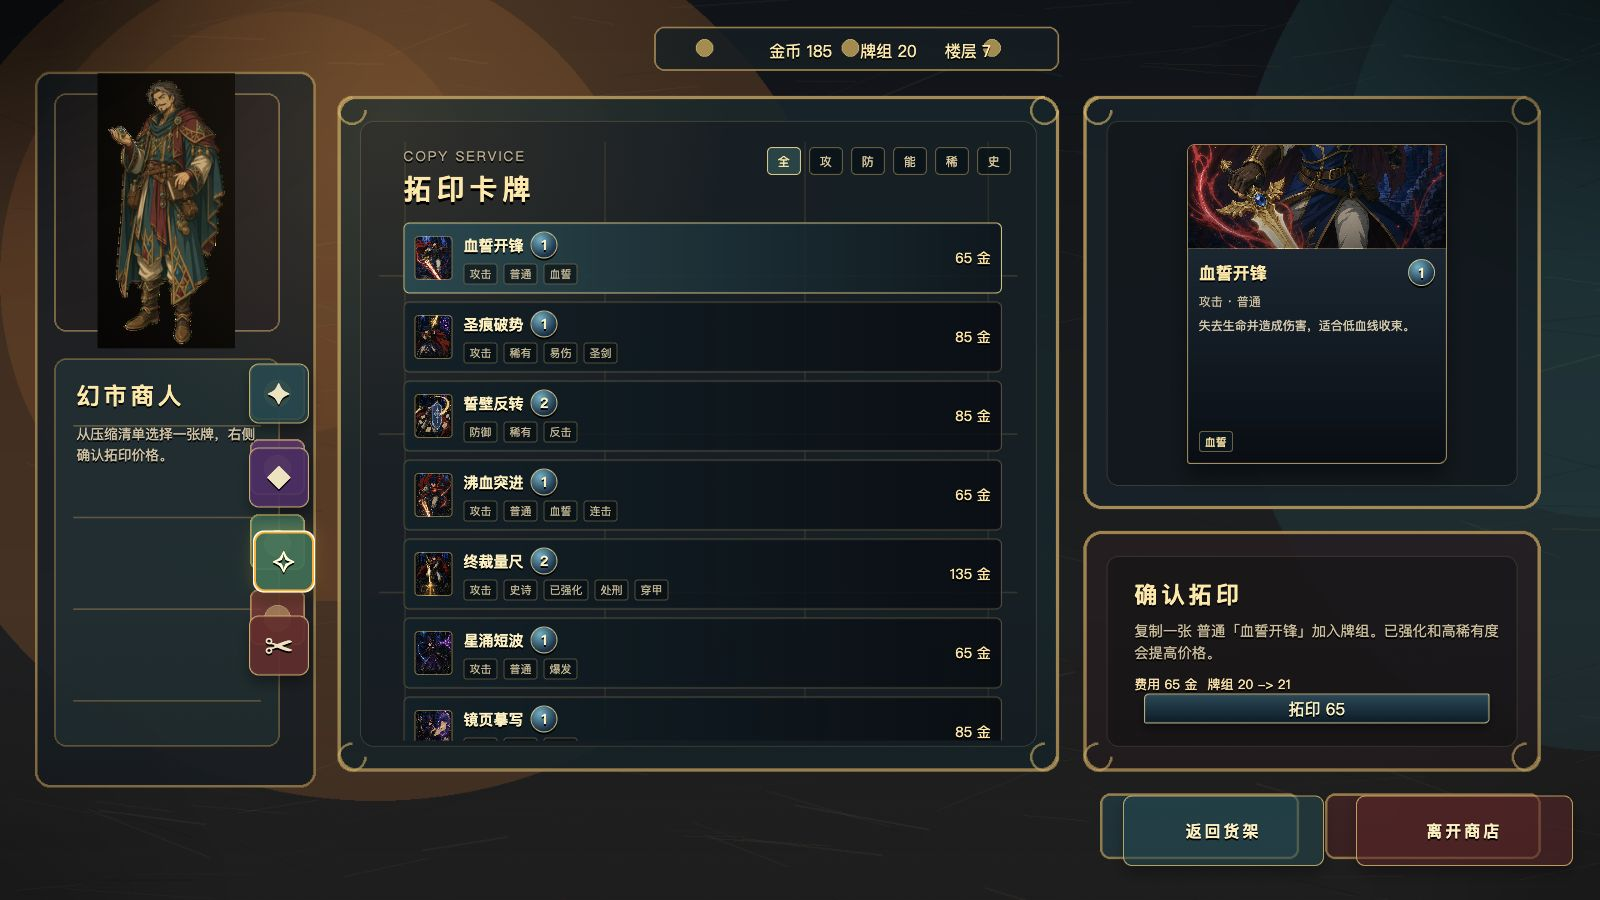
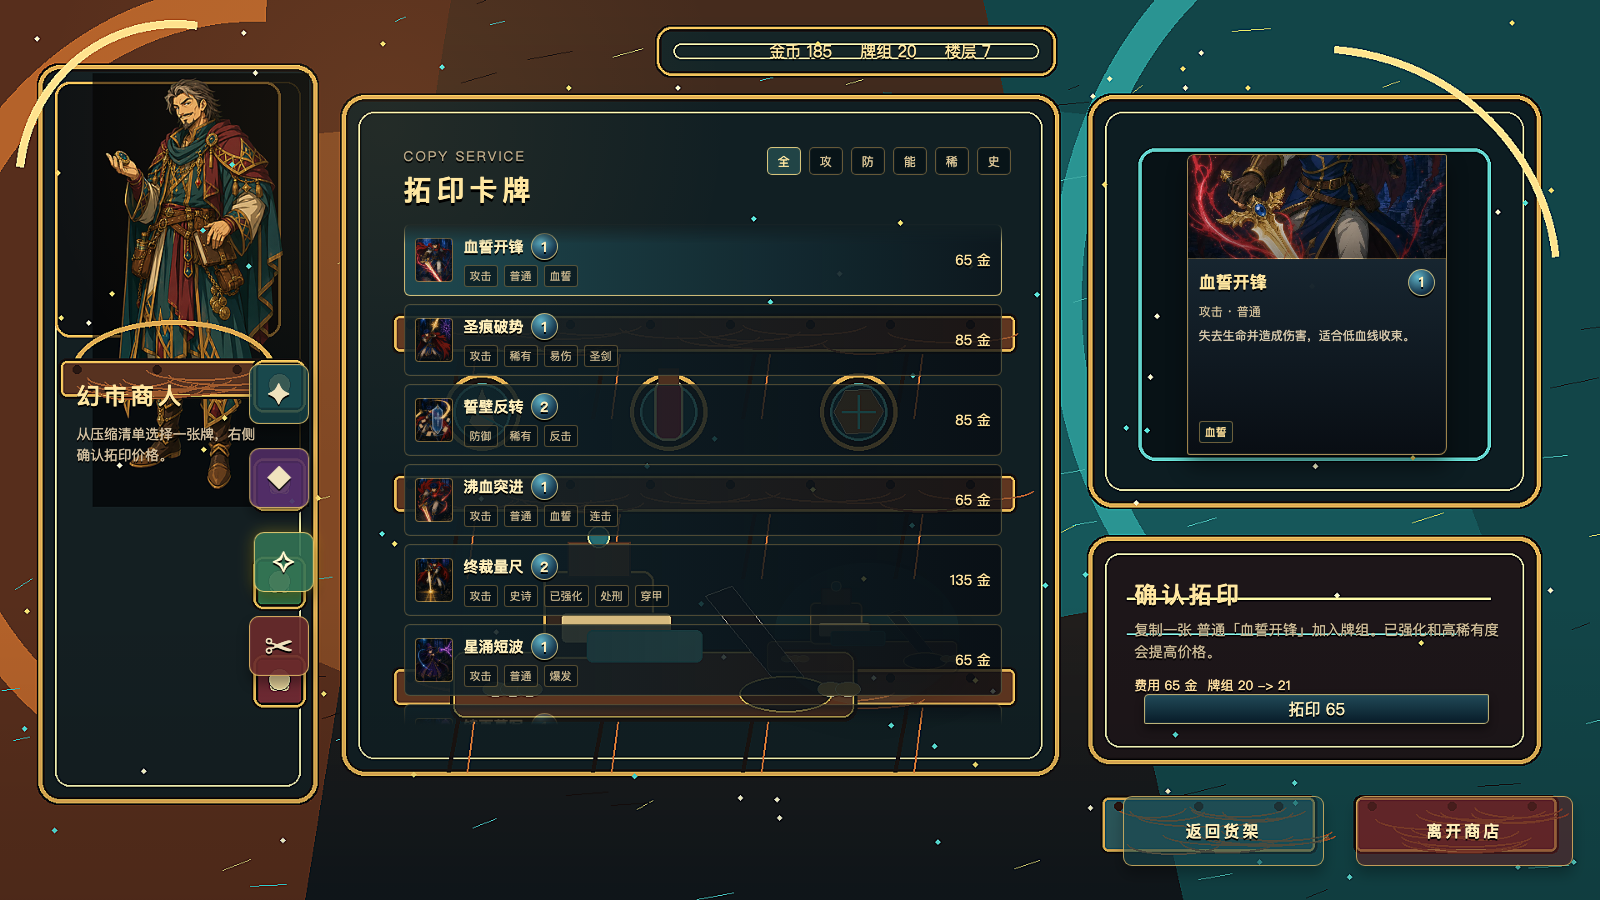
Update shop art prototype

diff --git a/assets/candidates/ui/shop/prototype/shop_prototype.html b/assets/candidates/ui/shop/prototype/shop_prototype.html
@@ -41,7 +41,7 @@
       aspect-ratio: 16 / 9;
       position: relative;
       overflow: hidden;
-      background: #070b10 url("./shop_prototype_plate_v1.png") center / cover no-repeat;
+      background: #070b10 url("./shop_art_plate_v2.png") center / cover no-repeat;
       box-shadow: 0 24px 70px rgba(0, 0, 0, 0.75);
     }
 
@@ -51,8 +51,8 @@
       inset: 0;
       pointer-events: none;
       background:
-        radial-gradient(circle at 24% 14%, rgba(255, 190, 94, 0.11), transparent 24%),
-        linear-gradient(180deg, transparent 66%, rgba(0, 0, 0, 0.16));
+        radial-gradient(circle at 24% 14%, rgba(255, 190, 94, 0.08), transparent 24%),
+        linear-gradient(180deg, transparent 66%, rgba(0, 0, 0, 0.12));
     }
 
     .resource-strip {
@@ -154,6 +154,12 @@
       z-index: 2;
     }
 
+    #content-body {
+      position: relative;
+      height: calc(100% - 70px);
+      min-height: 0;
+    }
+
     .content-head {
       display: flex;
       align-items: flex-start;
@@ -207,7 +213,7 @@
       display: grid;
       grid-template-columns: repeat(3, minmax(0, 1fr));
       gap: 15px;
-      height: calc(100% - 70px);
+      height: 100%;
       align-content: start;
     }
 
@@ -337,8 +343,28 @@
       display: grid;
       grid-template-columns: repeat(3, minmax(0, 1fr));
       gap: 16px;
-      height: calc(100% - 74px);
+      height: auto;
       align-content: start;
+      position: relative;
+      z-index: 2;
+    }
+
+    .relic-showcase {
+      height: 100%;
+      display: grid;
+      grid-template-rows: minmax(116px, 34%) 1fr;
+      gap: 10px;
+      min-height: 0;
+    }
+
+    .relic-tray-art {
+      width: min(94%, 560px);
+      max-height: 146px;
+      object-fit: contain;
+      justify-self: center;
+      align-self: center;
+      filter: drop-shadow(0 16px 18px rgba(0,0,0,0.5));
+      pointer-events: none;
     }
 
     .relic-token {
@@ -385,12 +411,29 @@
     .deck-layout {
       display: grid;
       grid-template-columns: minmax(0, 1fr);
-      height: calc(100% - 74px);
+      height: 100%;
+      position: relative;
+      min-height: 0;
+    }
+
+    .service-workbench-art {
+      position: absolute;
+      right: 2%;
+      bottom: 1%;
+      width: min(44%, 280px);
+      opacity: 0.32;
+      filter: drop-shadow(0 16px 18px rgba(0,0,0,0.56));
+      pointer-events: none;
+      z-index: 0;
     }
 
     .deck-list {
       overflow-y: auto;
       padding-right: 9px;
+      position: relative;
+      z-index: 2;
+      -webkit-mask-image: linear-gradient(180deg, transparent 0, black 20px, black calc(100% - 24px), transparent 100%);
+      mask-image: linear-gradient(180deg, transparent 0, black 20px, black calc(100% - 24px), transparent 100%);
       scrollbar-width: thin;
       scrollbar-color: rgba(216,176,95,0.52) rgba(0,0,0,0.2);
     }
@@ -402,7 +445,8 @@
       padding: 8px 10px;
       border: 1px solid rgba(216,176,95,0.32);
       border-radius: 6px;
-      background: linear-gradient(90deg, rgba(15,33,40,0.94), rgba(7,12,18,0.84));
+      background: linear-gradient(90deg, rgba(15,33,40,0.9), rgba(7,12,18,0.76));
+      backdrop-filter: blur(2px);
       display: grid;
       grid-template-columns: 38px 1fr auto;
       gap: 11px;
@@ -483,7 +527,7 @@
     .detail .proto-card {
       width: min(260px, 78%);
       height: 100%;
-      min-height: 320px;
+      min-height: 300px;
       transform: none;
     }
 
@@ -760,15 +804,18 @@
       contextAction.textContent = '补货 10';
       renderFilters(false);
       body.innerHTML = `
-        <div class="relic-grid">
-          ${relics.map(relic => `
-            <button class="relic-token">
-              <div class="relic-icon">${relic.icon}</div>
-              <div class="relic-name">${relic.name}</div>
-              <div class="relic-desc">${relic.desc}</div>
-              <div class="tag-row" style="justify-content:center;"><span class="tag">${relic.sale ? '半价 ' : ''}${relic.price} 金</span></div>
-            </button>
-          `).join('')}
+        <div class="relic-showcase">
+          <img class="relic-tray-art" src="./shop_art_relic_tray.png" alt="">
+          <div class="relic-grid">
+            ${relics.map(relic => `
+              <button class="relic-token">
+                <div class="relic-icon">${relic.icon}</div>
+                <div class="relic-name">${relic.name}</div>
+                <div class="relic-desc">${relic.desc}</div>
+                <div class="tag-row" style="justify-content:center;"><span class="tag">${relic.sale ? '半价 ' : ''}${relic.price} 金</span></div>
+              </button>
+            `).join('')}
+          </div>
         </div>
       `;
       detail.innerHTML = `<div class="empty-state">奇珍详情会在这里显示<br>正式接入时读取真实遗物描述</div>`;
@@ -795,6 +842,7 @@
       const selected = cards.find(card => card.id === selectedId) || list[0] || cards[0];
       body.innerHTML = `
         <div class="deck-layout">
+          <img class="service-workbench-art" src="./shop_art_service_workbench.png" alt="">
           <div class="deck-list">
             ${list.map(card => deckRowHTML(card, selected.id, mode)).join('')}
           </div>

diff --git a/assets/candidates/ui/shop/prototype/build_shop_art_assets.py b/assets/candidates/ui/shop/prototype/build_shop_art_assets.py
@@ -1,0 +1,212 @@
+from __future__ import annotations
+
+import math
+import random
+from pathlib import Path
+
+from PIL import Image, ImageDraw, ImageFilter
+
+
+ROOT = Path(__file__).resolve().parents[4]
+OUT_DIR = Path(__file__).resolve().parent
+SHOPKEEPER = ROOT / "source/npc/shopkeeper_alpha_fullres_v1_source.png"
+W, H = 1920, 1080
+RNG = random.Random(1996)
+
+
+INK = (25, 19, 18, 245)
+LINE = (68, 45, 32, 245)
+GOLD = (220, 167, 82, 245)
+GOLD_LIGHT = (255, 226, 142, 230)
+TEAL = (38, 108, 112, 235)
+BURGUNDY = (112, 43, 52, 235)
+WALNUT = (95, 54, 32, 245)
+PARCHMENT = (216, 188, 128, 235)
+
+
+def lerp(a: int, b: int, t: float) -> int:
+    return int(a + (b - a) * t)
+
+
+def cel_bg() -> Image.Image:
+    img = Image.new("RGBA", (W, H), (0, 0, 0, 255))
+    draw = ImageDraw.Draw(img, "RGBA")
+    for y in range(H):
+        t = y / H
+        draw.line((0, y, W, y), fill=(lerp(70, 17, t), lerp(44, 24, t), lerp(30, 28, t), 255))
+
+    # Broad cel-animation color planes.
+    draw.polygon([(0, 0), (540, 0), (365, 1080), (0, 1080)], fill=(87, 46, 28, 170))
+    draw.polygon([(1180, 0), (1920, 0), (1920, 1080), (1420, 1080)], fill=(18, 69, 72, 150))
+    draw.polygon([(270, 170), (810, 120), (1030, 530), (620, 895), (210, 720)], fill=(129, 72, 36, 96))
+    draw.polygon([(1060, 110), (1600, 170), (1780, 650), (1270, 740)], fill=(22, 87, 90, 82))
+    draw.arc((-120, -20, 730, 960), 84, 272, fill=(180, 98, 42, 86), width=46)
+    draw.arc((1260, -140, 2080, 860), 96, 278, fill=(42, 148, 146, 72), width=38)
+
+    for _ in range(130):
+        x = RNG.randint(0, W)
+        y = RNG.randint(0, H)
+        length = RNG.randint(12, 58)
+        col = RNG.choice([(245, 190, 95, 42), (63, 171, 164, 40), (21, 17, 17, 58)])
+        draw.line((x, y, x + length, y - RNG.randint(2, 13)), fill=col, width=1)
+    return img
+
+
+def outlined_round(draw: ImageDraw.ImageDraw, box, radius=18, fill=(18, 31, 35, 215), outline=GOLD, width=5):
+    x1, y1, x2, y2 = box
+    draw.rounded_rectangle(box, radius=radius, fill=fill, outline=INK, width=width + 5)
+    draw.rounded_rectangle((x1 + 2, y1 + 2, x2 - 2, y2 - 2), radius=radius, outline=outline, width=width)
+    draw.rounded_rectangle((x1 + 22, y1 + 22, x2 - 22, y2 - 22), radius=max(4, radius - 9), outline=(255, 224, 145, 55), width=2)
+
+
+def wood_board(draw: ImageDraw.ImageDraw, box, fill=WALNUT):
+    x1, y1, x2, y2 = box
+    draw.rounded_rectangle(box, radius=9, fill=INK, outline=INK, width=5)
+    draw.rounded_rectangle((x1 + 3, y1 + 3, x2 - 3, y2 - 3), radius=7, fill=fill, outline=GOLD, width=3)
+    for _ in range(12):
+        yy = RNG.randint(y1 + 12, y2 - 12)
+        x = RNG.randint(x1 + 16, x2 - 96)
+        draw.arc((x, yy - 12, x + RNG.randint(80, 160), yy + 14), 8, 176, fill=(154, 88, 45, 170), width=2)
+    for x in range(x1 + 22, x2 - 20, 96):
+        draw.ellipse((x - 5, y1 + 8, x + 5, y1 + 18), fill=(42, 24, 18, 220))
+
+
+def card_stand(draw: ImageDraw.ImageDraw, x: int, y: int, fill):
+    draw.rounded_rectangle((x - 62, y - 92, x + 62, y + 80), radius=12, fill=INK, outline=INK, width=6)
+    draw.rounded_rectangle((x - 57, y - 87, x + 57, y + 75), radius=10, fill=fill, outline=GOLD_LIGHT, width=3)
+    draw.rectangle((x - 43, y + 26, x + 43, y + 32), fill=(255, 226, 142, 125))
+    draw.polygon([(x - 50, y + 74), (x + 50, y + 74), (x + 22, y + 112), (x - 30, y + 106)], fill=(53, 32, 22, 210), outline=LINE)
+
+
+def relic_icon(draw: ImageDraw.ImageDraw, cx: int, cy: int, kind: str):
+    draw.ellipse((cx - 46, cy - 46, cx + 46, cy + 46), fill=INK, outline=GOLD, width=5)
+    draw.ellipse((cx - 34, cy - 34, cx + 34, cy + 34), fill=(24, 75, 78, 230), outline=(95, 204, 190, 170), width=3)
+    if kind == "compass":
+        draw.polygon([(cx, cy - 30), (cx + 16, cy + 12), (cx, cy + 28), (cx - 16, cy + 12)], fill=PARCHMENT, outline=LINE)
+        draw.line((cx - 24, cy - 8, cx + 25, cy + 18), fill=(92, 212, 193, 180), width=3)
+    elif kind == "vial":
+        draw.rounded_rectangle((cx - 17, cy - 38, cx + 17, cy + 34), radius=12, fill=(187, 48, 63, 225), outline=GOLD_LIGHT, width=3)
+        draw.rectangle((cx - 12, cy - 52, cx + 12, cy - 32), fill=(77, 48, 31, 240), outline=LINE)
+    else:
+        draw.regular_polygon((cx, cy, 30), n_sides=6, rotation=0.5, fill=(139, 99, 50, 240), outline=GOLD_LIGHT)
+        draw.line((cx - 20, cy, cx + 20, cy), fill=(88, 221, 195, 190), width=3)
+        draw.line((cx, cy - 20, cx, cy + 20), fill=(88, 221, 195, 190), width=3)
+
+
+def service_tools(draw: ImageDraw.ImageDraw, offset=(0, 0), scale=1.0):
+    ox, oy = offset
+
+    def p(v: float) -> int:
+        return int(v * scale)
+
+    draw.rounded_rectangle((ox + p(0), oy + p(116), ox + p(520), oy + p(208)), radius=p(18), fill=INK, outline=INK, width=p(5))
+    draw.rounded_rectangle((ox + p(5), oy + p(120), ox + p(515), oy + p(203)), radius=p(14), fill=WALNUT, outline=GOLD, width=p(3))
+    draw.rounded_rectangle((ox + p(120), oy + p(16), ox + p(260), oy + p(128)), radius=p(14), fill=(52, 38, 29, 245), outline=GOLD, width=p(4))
+    draw.rectangle((ox + p(150), oy + p(-22), ox + p(230), oy + p(24)), fill=(119, 74, 42, 240), outline=LINE, width=p(3))
+    draw.ellipse((ox + p(176), oy + p(-42), ox + p(204), oy + p(-14)), fill=TEAL, outline=GOLD_LIGHT, width=p(3))
+    draw.rounded_rectangle((ox + p(142), oy + p(70), ox + p(282), oy + p(108)), radius=p(8), fill=PARCHMENT, outline=LINE, width=p(2))
+    draw.rounded_rectangle((ox + p(175), oy + p(92), ox + p(322), oy + p(132)), radius=p(8), fill=(122, 220, 207, 95), outline=(84, 213, 195, 160), width=p(3))
+    draw.polygon([(ox + p(360), oy + p(36)), (ox + p(454), oy + p(154)), (ox + p(420), oy + p(162)), (ox + p(326), oy + p(48))], fill=(22, 24, 27, 245), outline=GOLD_LIGHT)
+    draw.ellipse((ox + p(370), oy + p(150), ox + p(488), oy + p(196)), fill=(42, 31, 27, 240), outline=GOLD, width=p(3))
+    for x in [42, 64, 86, 470, 492]:
+        draw.ellipse((ox + p(x), oy + p(158), ox + p(x + 32), oy + p(176)), fill=(219, 166, 74, 225), outline=GOLD_LIGHT, width=p(2))
+
+
+def make_plate() -> None:
+    img = cel_bg()
+    draw = ImageDraw.Draw(img, "RGBA")
+
+    # Painted shop stall structures and safe UI recesses.
+    outlined_round(draw, (44, 76, 382, 965), radius=26, fill=(20, 31, 34, 214), outline=GOLD, width=5)
+    outlined_round(draw, (408, 112, 1272, 932), radius=28, fill=(17, 31, 35, 206), outline=GOLD, width=5)
+    outlined_round(draw, (1304, 112, 1850, 610), radius=30, fill=(13, 29, 34, 214), outline=GOLD, width=5)
+    outlined_round(draw, (1304, 642, 1850, 918), radius=26, fill=(29, 22, 25, 218), outline=GOLD, width=5)
+
+    # Merchant alcove uses the actual game shopkeeper.
+    draw.rounded_rectangle((66, 98, 336, 404), radius=18, fill=(15, 18, 20, 225), outline=GOLD, width=3)
+    keeper = Image.open(SHOPKEEPER).convert("RGBA")
+    keeper.thumbnail((260, 520), Image.Resampling.LANCZOS)
+    shadow = Image.new("RGBA", keeper.size, (0, 0, 0, 0))
+    shadow.alpha_composite(keeper)
+    shadow = Image.new("RGBA", keeper.size, (0, 0, 0, 150))
+    img.alpha_composite(shadow, (111, 88))
+    img.alpha_composite(keeper, (102, 78))
+    draw.arc((86, 384, 330, 506), 180, 360, fill=GOLD, width=6)
+    wood_board(draw, (70, 430, 338, 478), fill=(87, 50, 32, 246))
+
+    # Functional tab sockets stay visibly part of the same shop counter.
+    for y, fill in [(430, TEAL), (548, (94, 55, 127, 235)), (666, (48, 119, 76, 235)), (784, BURGUNDY)]:
+        outlined_round(draw, (302, y, 368, y + 66), radius=12, fill=fill, outline=GOLD, width=3)
+        draw.ellipse((322, y + 18, 348, y + 44), fill=(236, 216, 158, 170), outline=LINE, width=1)
+
+    # Central shop shelves.
+    for y in [376, 568, 800]:
+        wood_board(draw, (470, y, 1220, y + 48), fill=WALNUT)
+        for x in [552, 725, 905, 1088]:
+            draw.line((x, y + 49, x - 14, y + 126), fill=INK, width=5)
+            draw.line((x + 18, y + 49, x + 8, y + 126), fill=(205, 112, 51, 150), width=2)
+
+    for x, kind in [(578, "compass"), (802, "vial"), (1030, "charm")]:
+        relic_icon(draw, x, 494, kind)
+    service_tools(draw, (540, 670), 0.94)
+
+    # Right-side content recesses are empty enough for DOM cards/details.
+    draw.rounded_rectangle((1366, 178, 1788, 552), radius=20, fill=(8, 18, 22, 190), outline=(92, 196, 190, 135), width=4)
+    draw.line((1352, 718, 1788, 718), fill=GOLD_LIGHT, width=3)
+    draw.line((1352, 760, 1748, 760), fill=(110, 190, 182, 72), width=2)
+
+    # Top resource strip and bottom buttons.
+    outlined_round(draw, (786, 30, 1268, 92), radius=18, fill=(21, 37, 39, 206), outline=GOLD, width=3)
+    wood_board(draw, (1320, 954, 1580, 1024), fill=(46, 92, 96, 235))
+    wood_board(draw, (1624, 954, 1870, 1024), fill=(105, 45, 47, 235))
+
+    # Cel-style highlights, ink accents, and dust.
+    draw.arc((18, 24, 402, 416), 186, 278, fill=(255, 226, 142, 72), width=10)
+    draw.arc((1280, 54, 1872, 620), 275, 354, fill=(255, 226, 142, 64), width=9)
+    for _ in range(92):
+        x = RNG.randint(20, W - 20)
+        y = RNG.randint(20, H - 20)
+        col = RNG.choice([(252, 207, 106, 80), (82, 211, 196, 70), (255, 245, 180, 68)])
+        draw.polygon([(x, y - 3), (x + 3, y), (x, y + 3), (x - 3, y)], fill=col)
+
+    img = img.filter(ImageFilter.UnsharpMask(radius=1.0, percent=112, threshold=3))
+    img.convert("RGB").save(OUT_DIR / "shop_art_plate_v2.png", quality=95)
+
+
+def transparent_canvas(size: tuple[int, int]) -> Image.Image:
+    return Image.new("RGBA", size, (0, 0, 0, 0))
+
+
+def make_service_prop() -> None:
+    img = transparent_canvas((720, 430))
+    draw = ImageDraw.Draw(img, "RGBA")
+    draw.ellipse((118, 8, 612, 388), fill=(40, 151, 145, 54))
+    service_tools(draw, (92, 98), 1.0)
+    img = img.filter(ImageFilter.UnsharpMask(radius=1.0, percent=110, threshold=3))
+    img.save(OUT_DIR / "shop_art_service_workbench.png")
+
+
+def make_relic_tray() -> None:
+    img = transparent_canvas((760, 420))
+    draw = ImageDraw.Draw(img, "RGBA")
+    draw.ellipse((116, 4, 650, 384), fill=(38, 150, 145, 52))
+    wood_board(draw, (76, 250, 684, 348), fill=(101, 56, 34, 242))
+    draw.polygon([(118, 252), (642, 252), (588, 178), (174, 178)], fill=(93, 43, 49, 238), outline=INK)
+    for x, kind in [(208, "compass"), (380, "vial"), (552, "charm")]:
+        draw.ellipse((x - 74, 160, x + 74, 304), fill=(43, 24, 32, 224), outline=GOLD, width=4)
+        relic_icon(draw, x, 204, kind)
+    for x in [104, 628]:
+        draw.ellipse((x, 288, x + 36, 308), fill=(214, 164, 73, 220), outline=GOLD_LIGHT, width=2)
+        draw.ellipse((x + 16, 270, x + 52, 290), fill=(197, 144, 62, 220), outline=GOLD_LIGHT, width=2)
+    img = img.filter(ImageFilter.UnsharpMask(radius=1.0, percent=110, threshold=3))
+    img.save(OUT_DIR / "shop_art_relic_tray.png")
+
+
+def main() -> None:
+    make_plate()
+    make_service_prop()
+    make_relic_tray()
+
+
+if __name__ == "__main__":
+    main()

diff --git a/assets/candidates/ui/shop/prototype/README.md b/assets/candidates/ui/shop/prototype/README.md
@@ -5,11 +5,15 @@
 ## 文件
 
 - `shop_prototype.html`：可直接打开的交互原型。
-- `shop_prototype_plate_v1.png`：原型用商店美术底板。
+- `shop_art_plate_v2.png`：当前接入的商店美术底板。
+- `shop_art_service_workbench.png`：拓印 / 精简服务页的透明 PNG 装饰件。
+- `shop_art_relic_tray.png`：奇珍页的透明 PNG 陈列托盘。
+- `shop_prototype_plate_v1.png`：上一版原型底板，保留用于对比。
 - `shop_prototype_market.png`：货架状态验证截图。
 - `shop_prototype_relic.png`：奇珍状态验证截图。
 - `shop_prototype_copy.png`：拓印状态验证截图。
 - `shop_prototype_delete.png`：精简状态验证截图。
+- `build_shop_art_assets.py`：当前候选 PNG 的生成脚本，方便继续调底板布局和功能装饰件。
 
 ## 范围
 
